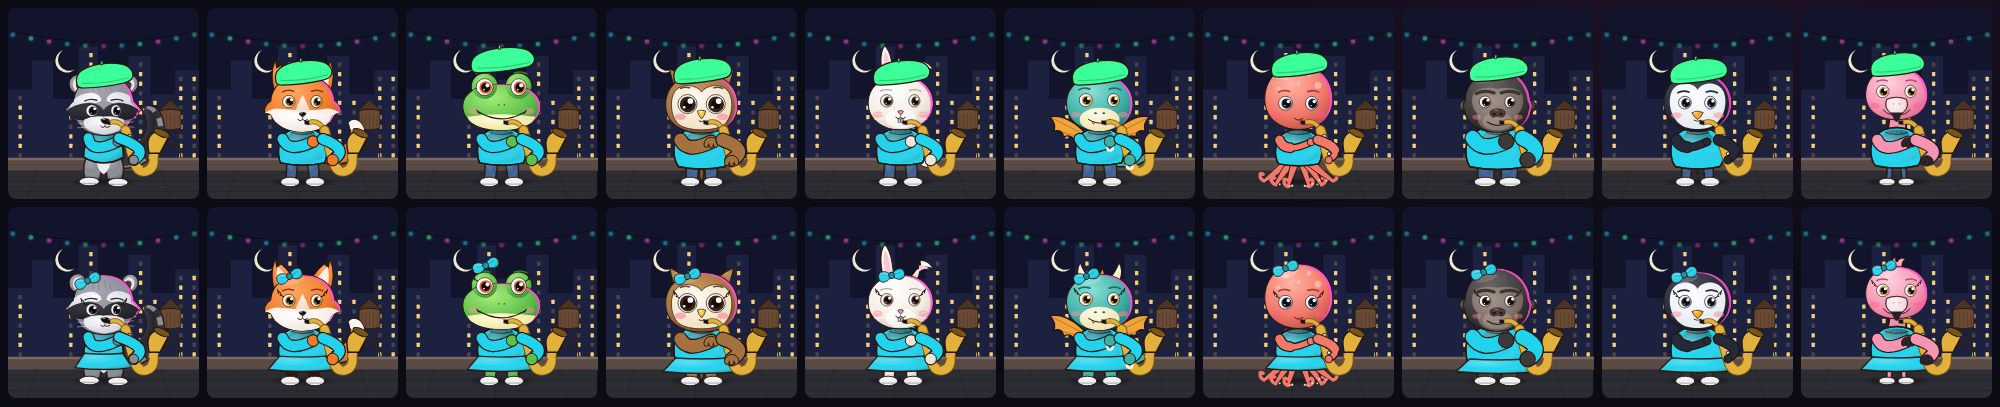
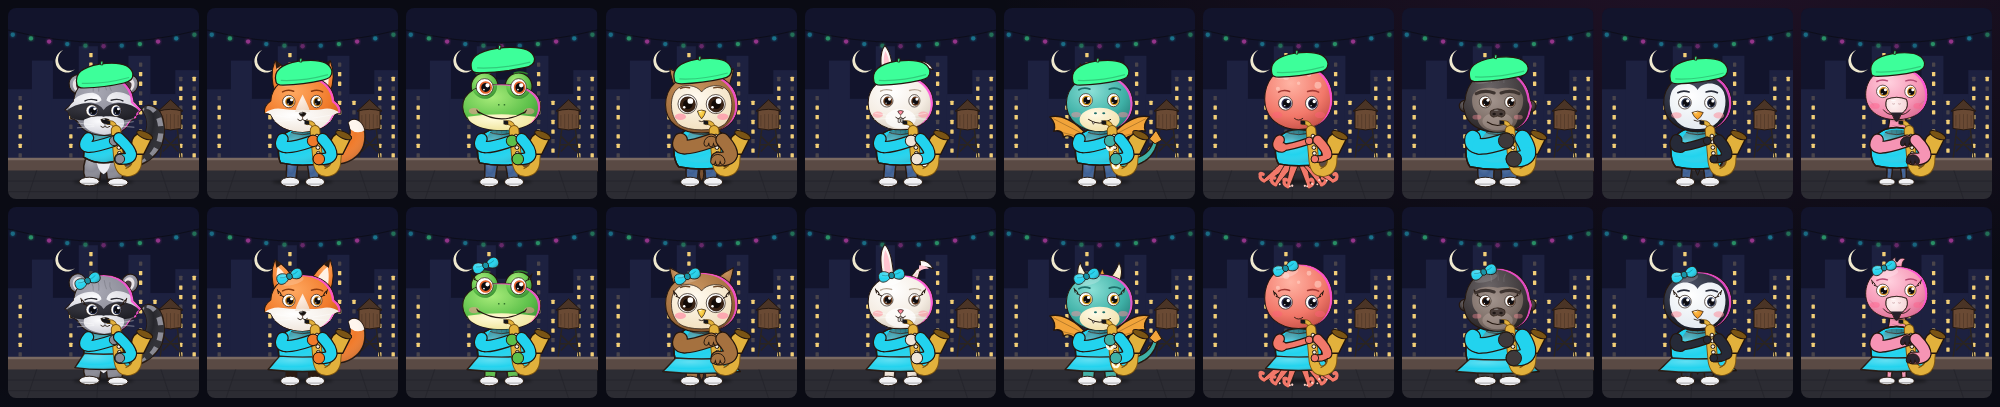
Fix the arms on the Saxophone and Violinist
The sax now sits down the middle so both hands reach it from their own
side, instead of one arm crossing the whole body and the other hooking
back. The violinist's fingering arm bends at the elbow under the neck
instead of sticking straight out.

Claude-Session: https://claude.ai/code/session_014p1VaA7ysRpxjHsiYsXciW

diff --git a/src/components/critters/Sax.tsx b/src/components/critters/Sax.tsx
@@ -6,12 +6,12 @@ import type { ActProps } from './species';
 import { useCritterRig } from './rig';
 
 /** Where the mouthpiece meets the mouth: the sax tips about this point. */
-const MOUTH: [number, number] = [212, 240];
+const MOUTH: [number, number] = [210, 240];
 /** Where each hand rests on the keys, as drawn (upper hand, lower hand). */
-const KEYS_HI: [number, number] = [250, 282];
-const KEYS_LO: [number, number] = [263, 318];
+const KEYS_HI: [number, number] = [222, 278];
+const KEYS_LO: [number, number] = [234, 316];
 /** The bell's mouth: notes float out of here. */
-const BELL: [number, number] = [322, 262];
+const BELL: [number, number] = [286, 266];
 /** City buildings behind the roof: x, width, height. */
 const BUILDINGS: [number, number, number][] = [
   [0, 56, 170], [50, 44, 230], [92, 60, 150], [148, 40, 260], [186, 70, 190], [252, 46, 240], [296, 58, 160], [350, 50, 210],
@@ -161,23 +161,23 @@ export function Sax({ species, still }: ActProps) {
 
       {/* the sax, from the mouthpiece down to the bell */}
       <g data-part="sax">
-        <path className="sax-edge" d="M212 240 Q 234 232 246 256" fill="none" strokeWidth="10" strokeLinecap="round" />
-        <path className="sax-brass" d="M212 240 Q 234 232 246 256" fill="none" strokeWidth="7" strokeLinecap="round" />
+        <path className="sax-edge" d="M210 240 Q 224 238 226 256" fill="none" strokeWidth="10" strokeLinecap="round" />
+        <path className="sax-brass" d="M210 240 Q 224 238 226 256" fill="none" strokeWidth="7" strokeLinecap="round" />
         <path className="sax-mouthpiece" d="M204 235 L 214 237 L 214 244 L 204 243 Z" />
-        <path className="sax-edge" d="M246 256 L 264 322 Q 272 346 290 341 Q 306 336 304 314 L 306 294" fill="none" strokeWidth="22" strokeLinecap="round" />
-        <path className="sax-brass" d="M246 256 L 264 322 Q 272 346 290 341 Q 306 336 304 314 L 306 294" fill="none" strokeWidth="18" strokeLinecap="round" />
-        <path className="sax-bell ol" d="M295 304 L 293 290 Q 290 268 306 260 Q 326 252 338 266 L 318 304 Z" />
-        <ellipse className="sax-bell-mouth ol-thin" cx="322" cy="262" rx="18" ry="7" transform="rotate(24 322 262)" />
-        <path className="sax-shine" d="M251 266 L 265 318" fill="none" strokeWidth="3" strokeLinecap="round" />
-        {[[250, 268], [253, 280], [257, 293], [260, 305], [264, 318]].map(([x, y]) => (
+        <path className="sax-edge" d="M226 256 L 232 322 Q 236 346 254 342 Q 270 338 270 318 L 272 298" fill="none" strokeWidth="22" strokeLinecap="round" />
+        <path className="sax-brass" d="M226 256 L 232 322 Q 236 346 254 342 Q 270 338 270 318 L 272 298" fill="none" strokeWidth="18" strokeLinecap="round" />
+        <path className="sax-bell ol" d="M261 306 L 259 292 Q 256 272 270 264 Q 290 256 302 270 L 284 306 Z" />
+        <ellipse className="sax-bell-mouth ol-thin" cx="286" cy="266" rx="18" ry="7" transform="rotate(24 286 266)" />
+        <path className="sax-shine" d="M229 266 L 234 318" fill="none" strokeWidth="3" strokeLinecap="round" />
+        {[[226, 268], [227, 280], [228, 292], [229, 304], [231, 316]].map(([x, y]) => (
           <circle key={y} className="sax-key ol-thin" cx={x + 4} cy={y} r="4" />
         ))}
-        <path className="sax-guard" d="M282 334 q 12 -4 14 -18" fill="none" strokeWidth="2.5" />
+        <path className="sax-guard" d="M246 336 q 12 -4 14 -18" fill="none" strokeWidth="2.5" />
       </g>
 
       {/* the upper hand reaches across from the left of the picture, the lower hand from the right */}
-      <Arm part="arm-l" d="M138 268 Q 176 318 248 284" hand={[250, 282]} />
-      <Arm part="arm-r" d="M262 268 Q 300 296 265 320" hand={[263, 318]} />
+      <Arm part="arm-l" d="M138 268 Q 140 306 220 280" hand={[222, 278]} />
+      <Arm part="arm-r" d="M262 268 Q 282 318 236 318" hand={[234, 316]} />
 
       {/* notes floating out of the bell */}
       {Array.from({ length: NOTES }, (_, i) => (

diff --git a/src/components/critters/Violin.tsx b/src/components/critters/Violin.tsx
@@ -204,7 +204,7 @@ export function Violin({ species, still }: ActProps) {
       </g>
 
       {/* the fingering hand on the neck (right of picture) and the bow hand (left) */}
-      <Arm part="arm-r" d="M262 268 Q 300 306 312 296" hand={[312, 296]} />
+      <Arm part="arm-r" d="M262 268 Q 268 352 304 302" hand={[304, 302]} />
       <Arm part="arm-l" d="M138 268 Q 132 312 172 304" hand={[174, 304]}>
         {([x, y]) => (
           <g>
